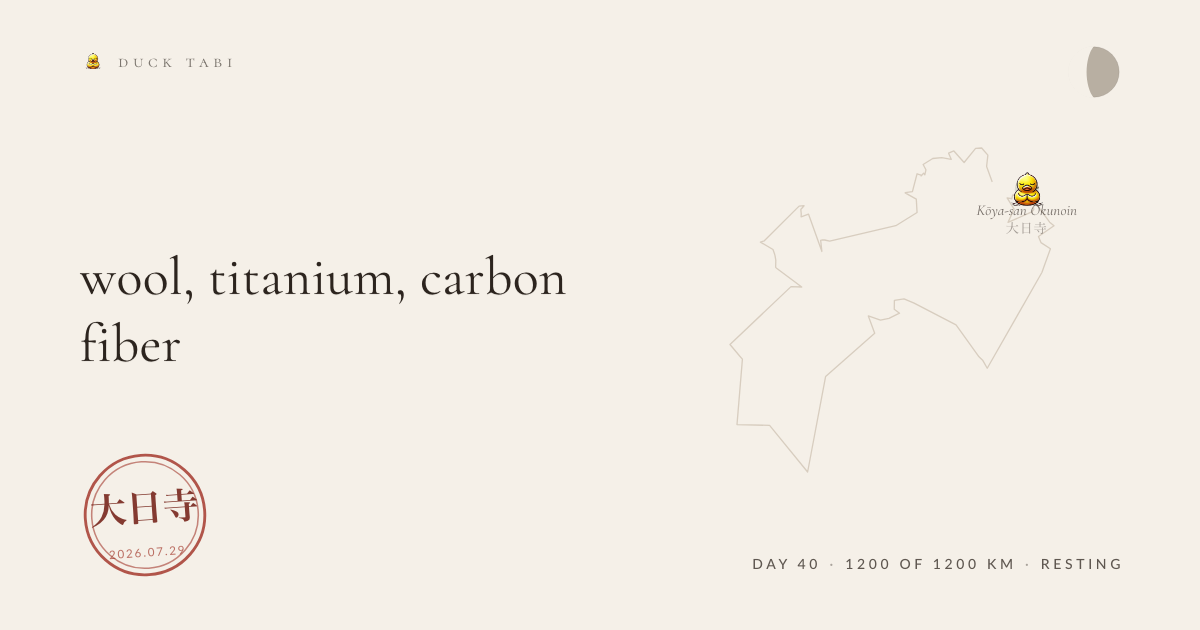
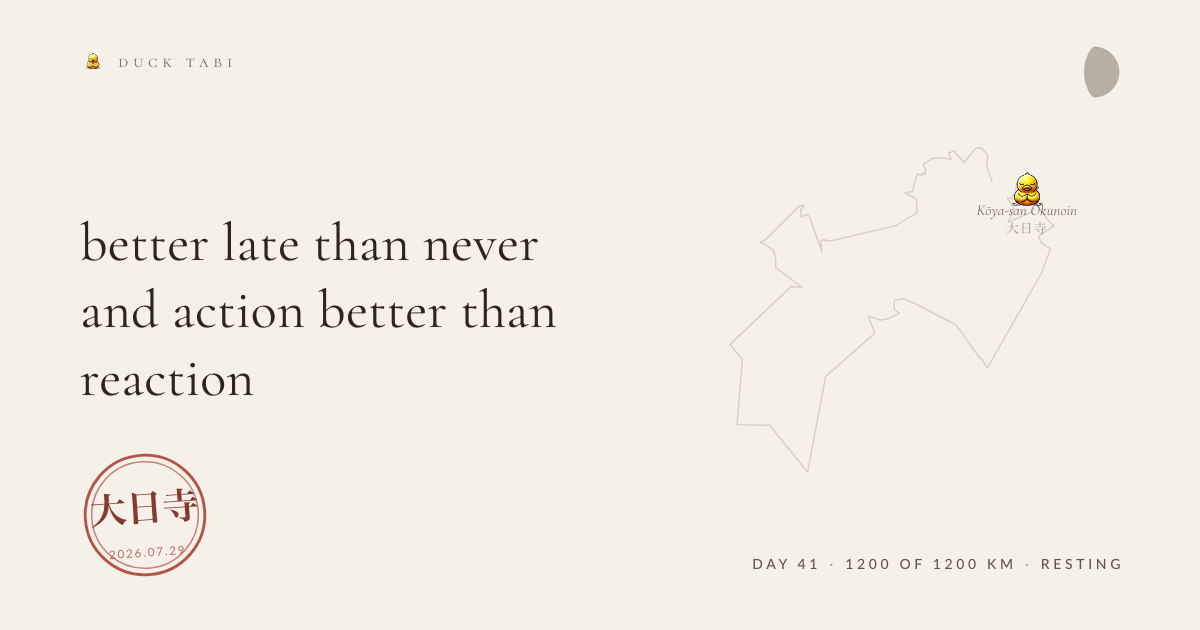
the duck walks

Changed region(s): [[0.0617, 0.3619, 0.4625, 0.6333]]

diff --git a/entries/2026-09-08-meditation.md b/entries/2026-09-08-meditation.md
@@ -1,0 +1,14 @@
+---
+date: '2026-09-08'
+route: shikoku-88
+stage: 4
+stageName: Kōya-san Okunoin
+coords: [135.589, 34.2167]
+kind: meditation
+glyph: 🪵
+weather: overcast, 23°C
+kmFromStart: 9
+heardId: dbe21952
+---
+
+better late than never and action better than reaction
